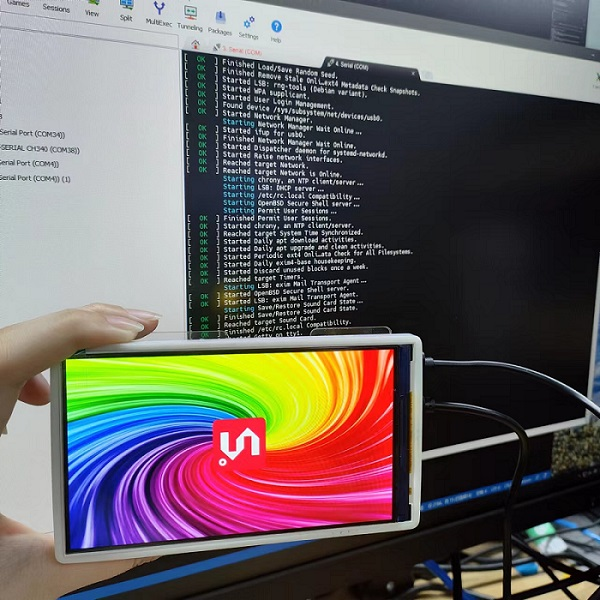
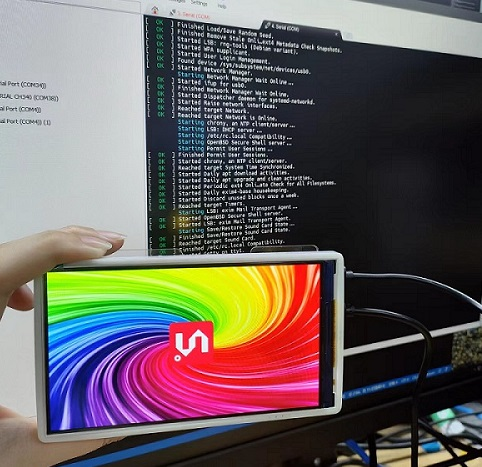
update

diff --git a/docs/hardware/zh/maixIII/ax-pi/axpi.md b/docs/hardware/zh/maixIII/ax-pi/axpi.md
@@ -179,6 +179,15 @@ title: MAIX-III AXera-Pi 是什么？
 
 如 [YOLOv5s-face 人脸检测](https://maixhub.com/model/zoo/110) 、 [蓝绿车牌识别](https://maixhub.com/model/zoo/79) 这些分享出来的现成可部署的模型。
 
+### 众多开箱案例
+
+> 截止目前更新时间：20221205
+
+<html>
+  <img src="./../assets/demo_two.jpg" width=48%>
+  <img src="./../assets/demo_one.jpg" width=48%>
+</html>
+
 ### Linux 开发
 
 #### 超高性价比与能效比
